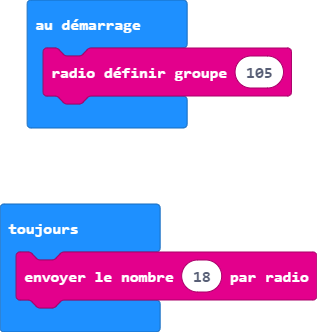
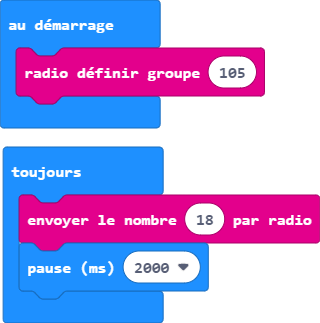
Mise à jour main.blocks, main.ts

diff --git a/main.ts b/main.ts
@@ -1,4 +1,5 @@
 radio.setGroup(105)
 basic.forever(function () {
     radio.sendNumber(18)
+    basic.pause(2000)
 })
